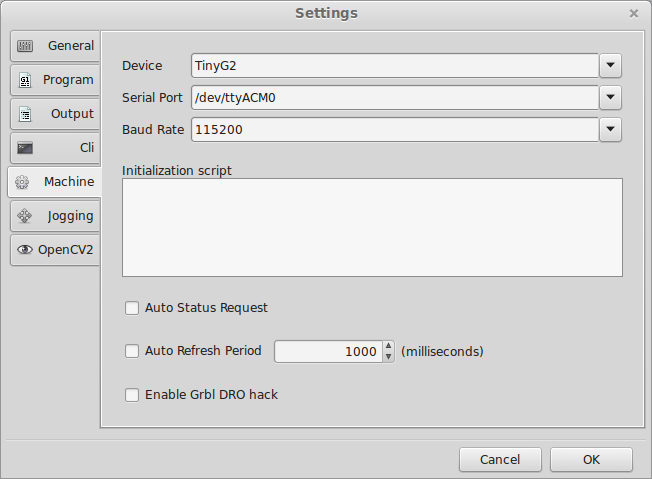
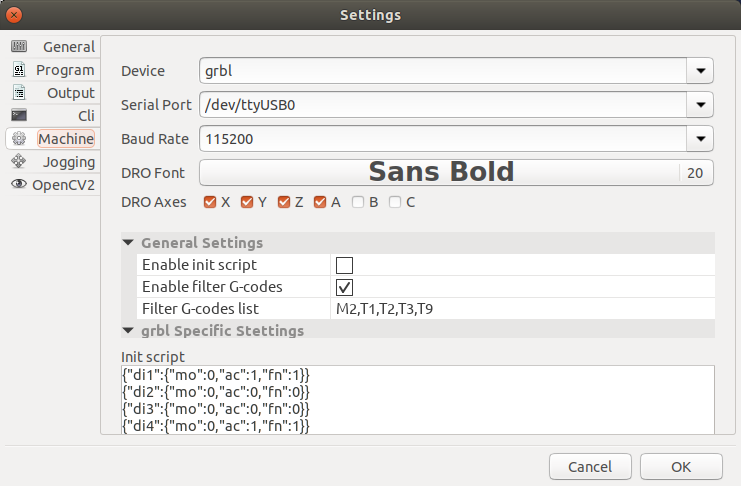
Update screenshots for version 1.6

diff --git a/modules/wnd_main.py b/modules/wnd_main.py
@@ -78,7 +78,7 @@ __website__ = 'https://github.com/duembeg/gsat'
 # define version information
 __requires__ = ['pySerial', 'wxPython']
 __version_info__ = (1, 6, 0)
-__version__ = 'v%i.%i.%i beta' % __version_info__
+__version__ = 'v%i.%i.%i' % __version_info__
 __revision__ = __version__
 
 

diff --git a/README.md b/README.md
@@ -105,12 +105,11 @@ Changelog
    * All machine interfaces are now separated in modules, each interface module can handle the specifics for that interface like encode/decode data, handle specific Jog, Hold, and Abort commands.
    * Better support for GRBL (for example extra axes in stm32 grbl versions),
    * Better support for TinyG2 and g2Core using JSON format to communicate with interface.
-   * GRBL and g2Core when error are sent back, extra explanation of error code will be displayed.
    * Removed any special knowledge of the UI in use, this way the underlying code can be used independently of UI.
    * Better handling of send buffers per interface, will slow down when buffer getting to full allowing interface to keep up.
 * Many UI changes.
-   * Updated icons and JOG panel, added hold and resume toolbar buttons.
-   * Added button for probing.
+   * Updated icons and JOG panel, added hold and resume toolbar buttons; added button for probing in JOG panel.
+   * GRBL and g2Core when error are sent back, extra explanation of error code will be displayed.
    * Remove special interface knowledge making it easier to add other interfaces in the future (for example Marlin).
    * Fixed run timer, now it will stop when interface finishes and not immediately after sending last command to interface.
    * DRO can now add or remove axes, by default is X, Y, and Z, but can turn on/off X, Y, Z, A, B, and C.
